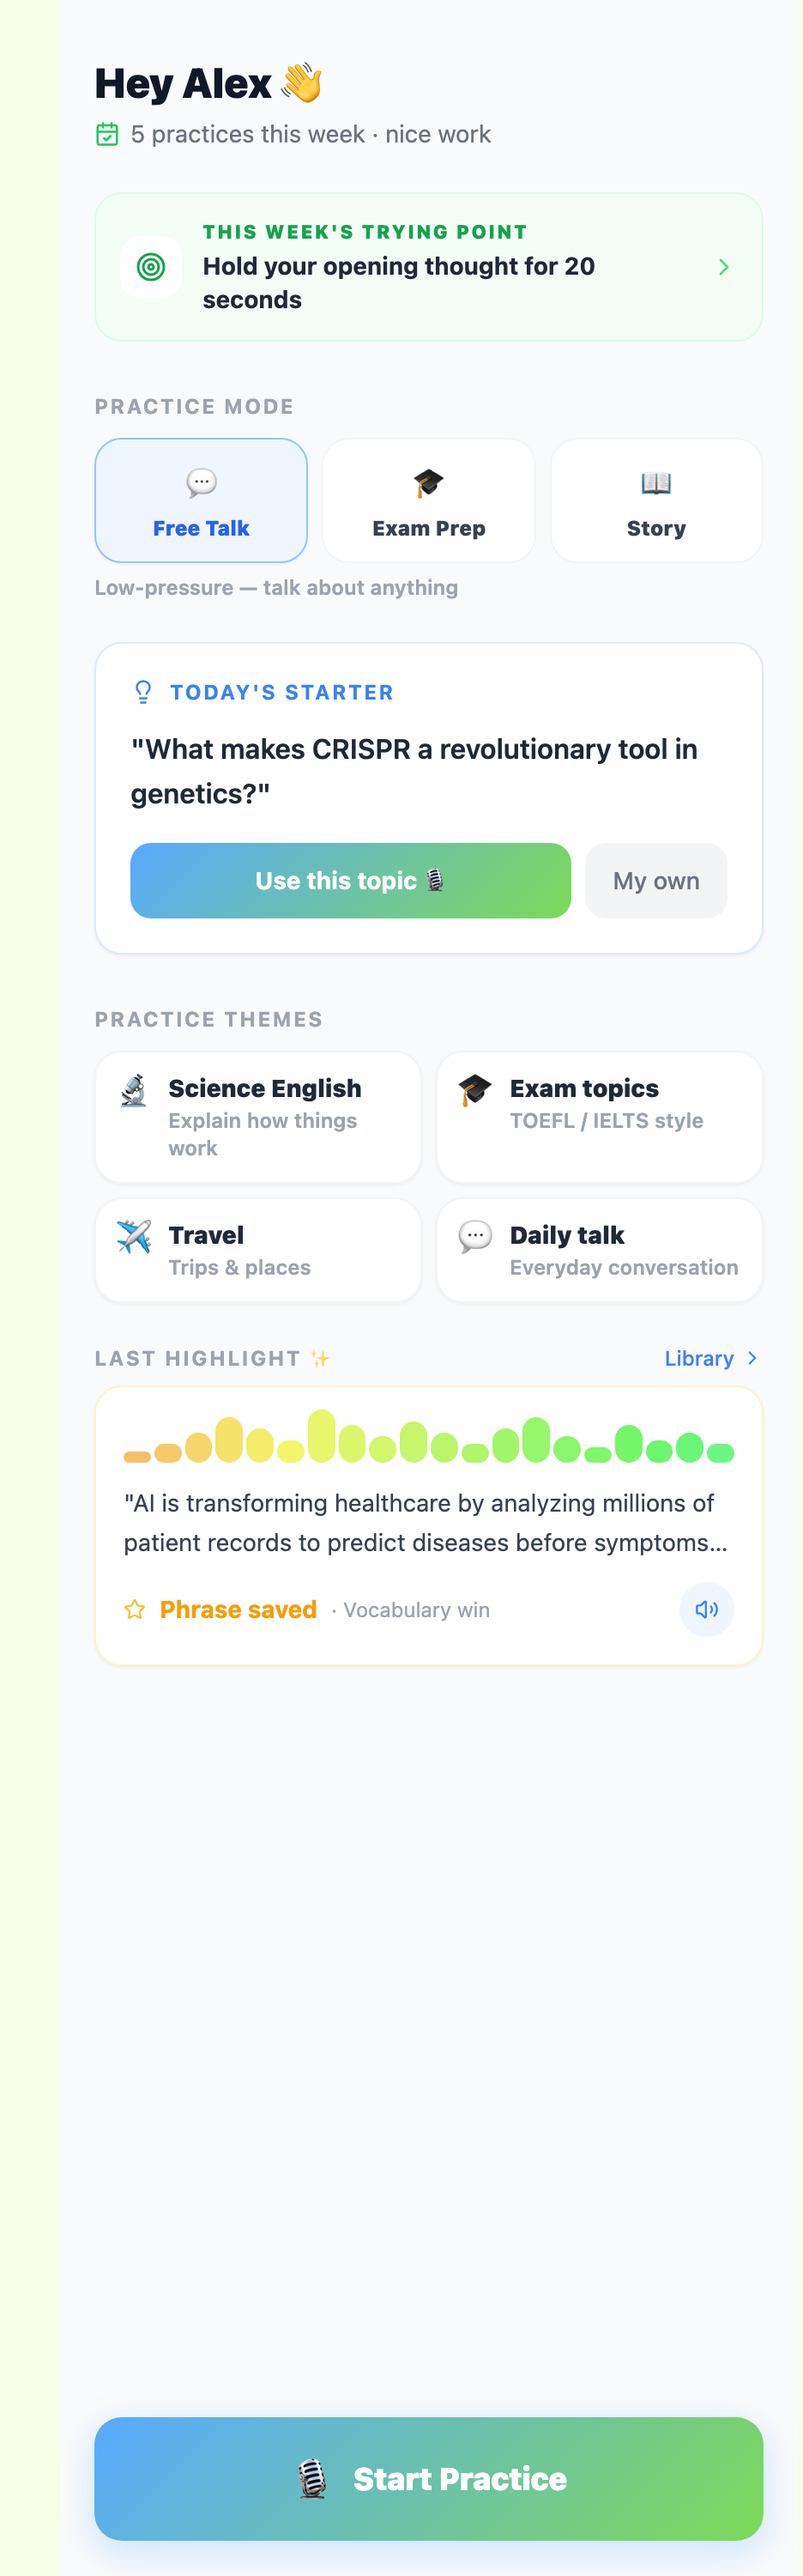
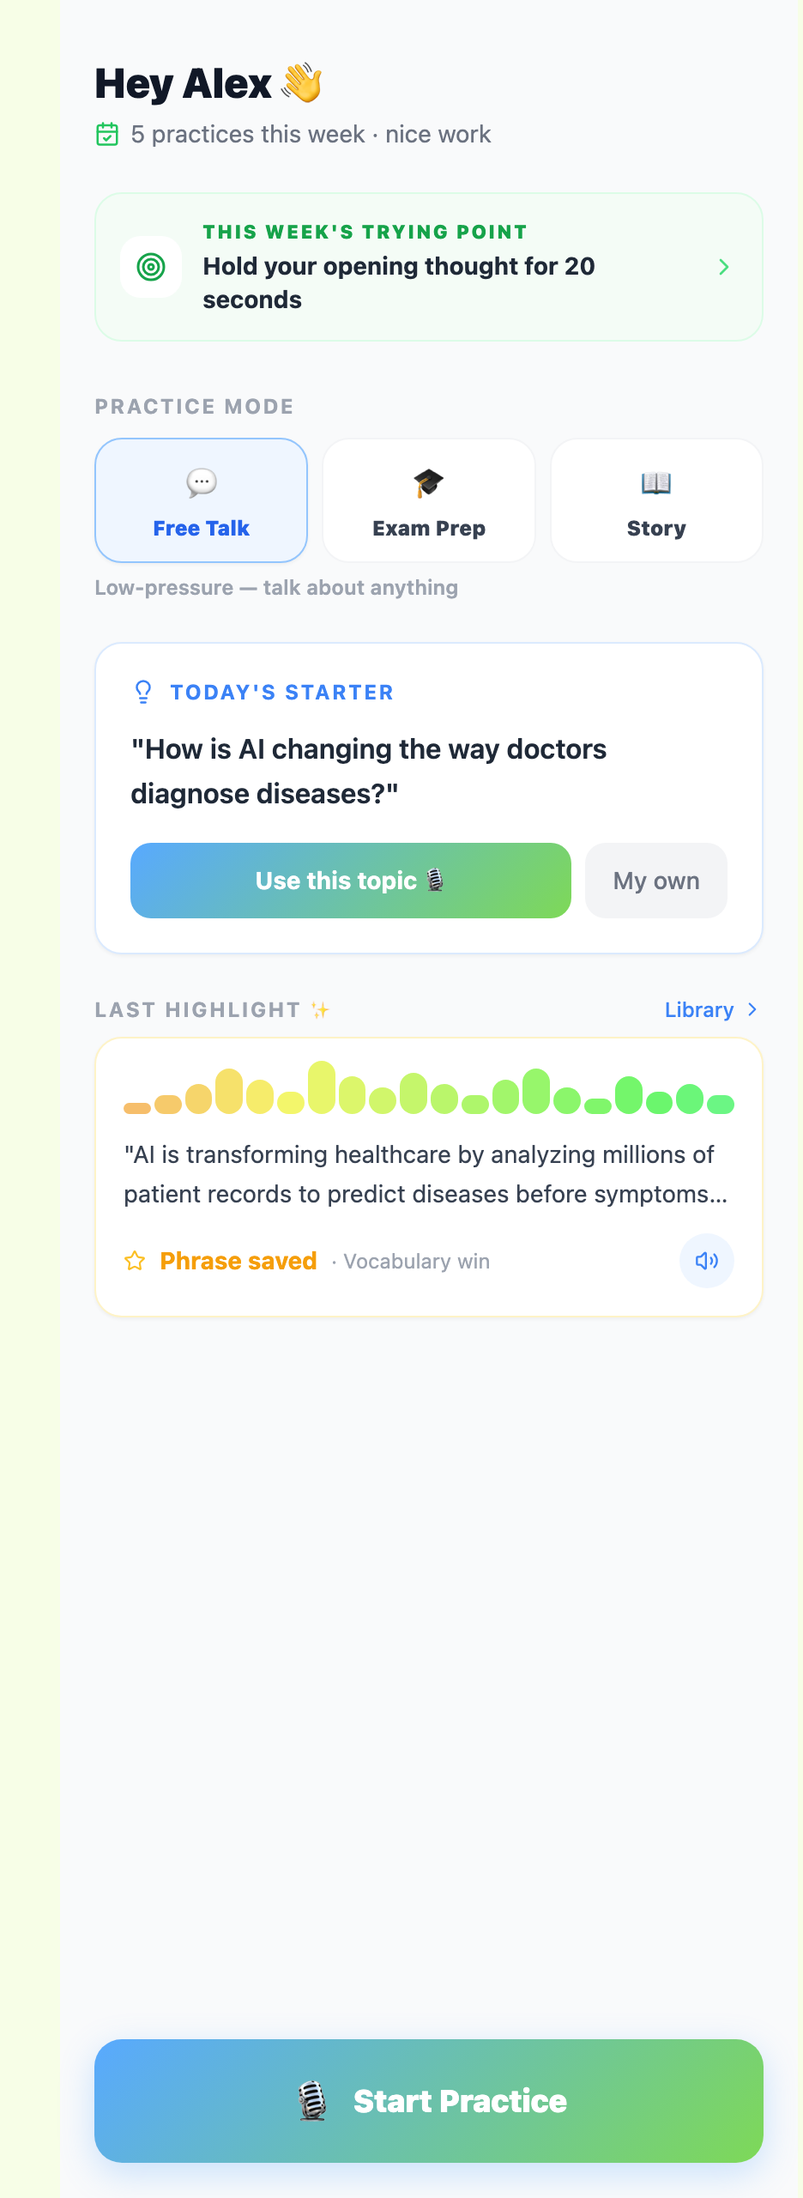
refactor(home): remove redundant Practice Themes section
The themed cards overlapped both the Practice Mode selector and Today's
Starter. Keep the mode selector + Today's Starter (cover "what to
practice"); drop the themed grid. Re-capture Home V2 and update the report
(#5 now "consolidated, redundancy removed").

diff --git a/Design/reports/iteration-report-2026-06-14.html b/Design/reports/iteration-report-2026-06-14.html
@@ -180,7 +180,7 @@
         <div class="phone before"><div class="phlab"><span class="tg">VERSION 1</span>反馈方原稿</div><img src="assets/phone/before-2.png" alt="原 Page 2 手机"></div>
         <div class="phone after"><div class="phlab"><span class="tg">VERSION 2</span>现在（本阶段）</div>
           <img class="shot-img" src="assets/phone/after-home.png" alt="V2 首页">
-          <p class="ph-cap">首页 V2（trying point + 主题卡 + 去 streak/分数）· <code>#/</code></p>
+          <p class="ph-cap">首页 V2（trying point + 模式 + 今日话题 + 去 streak/分数）· <code>#/</code></p>
         </div>
       </div>
       <p class="resp-cap">我们的回应 · OUR RESPONSE <span>（编号对应上方手机红点）</span></p>
@@ -312,8 +312,8 @@
       <div class="refs"><span class="commit">fa5b2c2</span><span class="commit">838a68b</span><span class="commit">4bdaf81</span></div>
     </div>
     <div class="fb">
-      <div class="h"><span class="num">#5</span><b>首页主题化口语活动</b><span class="chip s-ship"><span class="dot"></span>已上线</span></div>
-      <div class="two"><div class="was"><p class="lab">原问题</p><p>首页是仪表盘，缺"接下来该练什么"的引导。</p></div><div class="now"><p class="lab">我们怎么改</p><p>练习模式选择 + 今日话题 Starter + 新增<b>主题活动卡片区</b>（科普英语 / Exam / 旅游 / 日常对话），点击带 topic 进练习。</p></div></div>
+      <div class="h"><span class="num">#5</span><b>首页主题化口语活动</b><span class="chip s-part"><span class="dot"></span>已合并（去冗余）</span></div>
+      <div class="two"><div class="was"><p class="lab">原问题</p><p>首页是仪表盘，缺"接下来该练什么"的引导。</p></div><div class="now"><p class="lab">我们怎么改</p><p>用<b>练习模式选择</b>（Free Talk/Exam/Story）+ <b>今日话题 Starter</b> 覆盖"练什么"。曾加的独立"主题活动卡片区"与这两者重复，<b>已移除避免冗余</b>。如需独立主题入口可再单开。</p></div></div>
       <div class="refs"><span class="commit">9410ca1</span><span class="commit">87a6cd6</span></div>
     </div>
 

diff --git a/src/pages/Home.tsx b/src/pages/Home.tsx
@@ -15,13 +15,6 @@ const TOPIC_STARTERS = [
   "What makes CRISPR a revolutionary tool in genetics?",
 ];
 
-const THEMES = [
-  { emoji: "🔬", label: "Science English", blurb: "Explain how things work", topic: "How does AI change the way doctors diagnose diseases?" },
-  { emoji: "🎓", label: "Exam topics", blurb: "TOEFL / IELTS style", topic: "Describe a piece of technology you find useful and explain why." },
-  { emoji: "✈", label: "Travel", blurb: "Trips & places", topic: "Talk about a place you'd love to visit and what you'd do there." },
-  { emoji: "💬", label: "Daily talk", blurb: "Everyday conversation", topic: "Tell me about your weekend plans and why you chose them." },
-];
-
 const MOCK_LAST_HIGHLIGHT = {
   text: "AI is transforming healthcare by analyzing millions of patient records to predict diseases before symptoms appear.",
   score: 92,
@@ -128,26 +121,6 @@ export default function Home() {
             >
               My own
             </button>
-          </div>
-        </div>
-
-        {/* Themed practice events — pick a direction */}
-        <div>
-          <span className="text-xs font-bold uppercase tracking-widest text-gray-400">Practice themes</span>
-          <div className="mt-2 grid grid-cols-2 gap-2">
-            {THEMES.map((theme) => (
-              <button
-                key={theme.label}
-                onClick={() => navigate("/practice", { state: { topic: theme.topic } })}
-                className="flex items-start gap-2.5 rounded-2xl border border-gray-100 bg-white p-3 text-left shadow-sm transition active:scale-95"
-              >
-                <span className="text-xl leading-none">{theme.emoji}</span>
-                <span className="min-w-0">
-                  <span className="block text-sm font-black leading-tight text-gray-800">{theme.label}</span>
-                  <span className="mt-0.5 block text-xs font-semibold text-gray-400">{theme.blurb}</span>
-                </span>
-              </button>
-            ))}
           </div>
         </div>
 

diff --git a/Design/dev-memory/TODO.md b/Design/dev-memory/TODO.md
@@ -18,7 +18,7 @@
 - [x] 🟡 **My 页改名**（P7-2）：`User management` → `Settings`。`✅🧪`
 - [x] 🟡 **My 页文案**（P7-3）：Coach mode → `Practice feedback only`。`✅🧪`
 - [x] 🟡 **coach-mode 标签推广**（P1/跨页）：信任 chip 推到练习页(开练前)+My 头部。`✅🧪`
-- [x] 🟡 **首页主题活动卡片区**（#5/P5）：科普/Exam/旅游/日常 4 卡，带 topic 进练习。`✅🧪`
+- [~] 🟡 **首页主题活动**（#5/P5）：曾加 4 张主题卡，但与 Practice Mode + Today's Starter 重复 → **已移除主题卡**（保留模式选择 + 今日话题覆盖"练什么"）。如需独立主题入口再单开。
 - [x] 🟢 清死代码：删 `recentLines` + 无用 `practice-coach-strip/bubble-stack/listening-bubble*`。`✅`
 - [x] 🟡 **Trying Point 概念推广**（P6-2）：抽共享源 `lib/trying-point.ts`；首页加「本周 trying point」卡（点击进练习）；My 读共享源；Takeaway 的 one move 改叫「Your next trying point」——闭环。`✅🧪` [spec](../specs/2026-06-16-trying-point-propagation.md)
 
